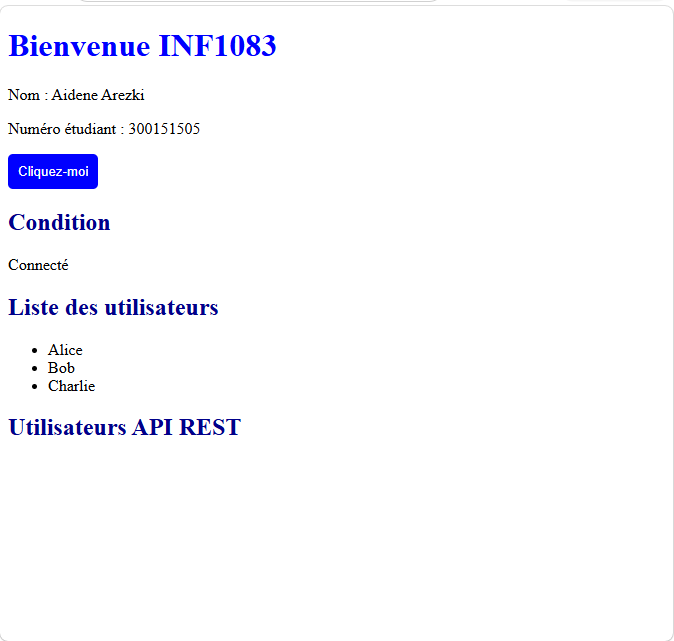
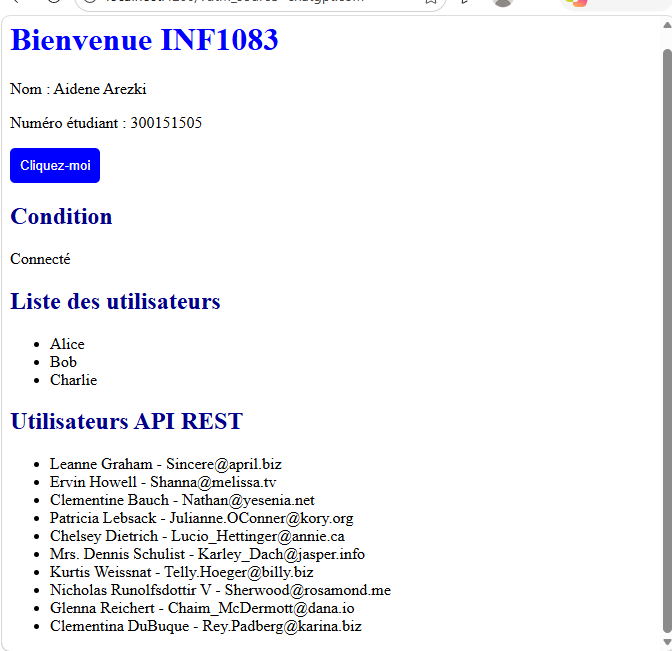
Amelioration du laboratoire Angular 300151505

diff --git a/3.Angular/300151505/README.md b/3.Angular/300151505/README.md
@@ -1,88 +1,339 @@
-\# Laboratoire 3 - Angular
+\# 🚀 Laboratoire 3 — Introduction à Angular
 
 
 
-Nom : Aidene Arezki
+\*\*Étudiant :\*\* Aidene Arezki  
 
-Numéro étudiant : 300151505
+\*\*Numéro étudiant :\*\* 300151505  
 
-Cours : INF1083 - Développement d'applications
+\*\*Programme :\*\* Techniques des systèmes informatiques  
 
-
-
-\## Objectif
-
-Créer une application Angular et découvrir ses principales fonctionnalités.
+\*\*Cours :\*\* INF1083 — Développement d'applications
 
 
 
-\## Travail réalisé
-
-\- Installation de Node.js et Angular CLI
-
-\- Création du projet B300151505
-
-\- Création du composant accueil
-
-\- Utilisation du Data Binding
-
-\- Création d'un bouton avec événement
-
-\- Utilisation de ngIf et ngFor
-
-\- Personnalisation avec CSS
-
-\- Connexion à une API REST
-
-\- Configuration du routage Angular
+\---
 
 
 
-\## Exécution
+\## 1. Objectif
+
+
+
+L'objectif de ce laboratoire est de découvrir Angular et de créer une application Web en utilisant les composants, le Data Binding, les événements, les directives et le routage.
+
+
+
+\## 2. Environnement Angular
+
+
+
+J'ai utilisé Node.js, npm, Angular CLI et Visual Studio Code pour développer mon application.
+
+
+
+Commandes de vérification :
+
+
+
+```powershell
+
+node --version
+
+npm --version
+
+ng version
+
+```
+
+
+
+\## 3. Création du projet
+
+
+
+Mon projet Angular s'appelle `B300151505`.
+
+
+
+Pour accéder au projet :
+
+
+
+```powershell
 
 cd B300151505
 
+```
 
+
+
+\## 4. Composant Accueil
+
+
+
+J'ai créé un composant `AccueilComponent` qui contient les informations principales de mon application.
+
+
+
+Ce composant affiche mon nom, mon numéro étudiant et un message de bienvenue.
+
+
+
+\## 5. Data Binding
+
+
+
+J'ai utilisé le Data Binding pour afficher les informations provenant du fichier TypeScript.
+
+
+
+```typescript
+
+titre = 'Bienvenue INF1083';
+
+nom = 'Aidene Arezki';
+
+id = '300151505';
+
+```
+
+
+
+Dans le HTML :
+
+
+
+```html
+
+<h1>{{ titre }}</h1>
+
+<p>Nom : {{ nom }}</p>
+
+<p>Numéro étudiant : {{ id }}</p>
+
+```
+
+
+
+\## 6. Gestion des événements
+
+
+
+J'ai ajouté un bouton qui exécute une fonction lorsque l'utilisateur clique dessus.
+
+
+
+```typescript
+
+saluer() {
+
+&#x20; alert('Bonjour !');
+
+}
+
+```
+
+
+
+Dans le HTML :
+
+
+
+```html
+
+<button (click)="saluer()">Cliquez-moi</button>
+
+```
+
+
+
+\## 7. Directives Angular
+
+
+
+J'ai utilisé deux directives Angular :
+
+
+
+\- `\*ngIf` pour afficher un message selon une condition.
+
+\- `\*ngFor` pour afficher une liste d'utilisateurs.
+
+
+
+La liste contient Alice, Bob et Charlie.
+
+
+
+\## 8. Connexion à une API REST
+
+
+
+J'ai utilisé `HttpClient` pour récupérer des utilisateurs depuis l'API :
+
+
+
+https://jsonplaceholder.typicode.com/users
+
+
+
+Les utilisateurs sont affichés avec leur nom et leur adresse courriel.
+
+
+
+Le test dans le navigateur a permis de confirmer l'affichage de 10 utilisateurs.
+
+
+
+\## 9. Routage Angular
+
+
+
+J'ai configuré la route principale dans `app.routes.ts`.
+
+
+
+```typescript
+
+import { Routes } from '@angular/router';
+
+import { AccueilComponent } from './accueil/accueil';
+
+
+
+export const routes: Routes = \[
+
+&#x20; {
+
+&#x20;   path: '',
+
+&#x20;   component: AccueilComponent
+
+&#x20; }
+
+];
+
+```
+
+
+
+Cette configuration permet d'afficher le composant Accueil sur la page principale.
+
+
+
+\## 10. Personnalisation CSS
+
+
+
+J'ai utilisé le CSS pour modifier l'apparence de mon application, notamment les couleurs des titres et le bouton.
+
+
+
+\## 11. Exécution de l'application
+
+
+
+Pour lancer mon application :
+
+
+
+```powershell
 
 ng serve
 
-
-
-Ouvrir http://localhost:4200
-
-
-
-\## Captures d'écran
-
-Les captures du laboratoire sont disponibles dans le dossier images.
-
-\## Résultat de l'application
+```
 
 
 
-L'application Angular a été créée et testée.
+L'application est accessible à l'adresse :
 
 
 
-\- Le composant accueil fonctionne.
-
-\- Le Data Binding affiche mon nom et mon ID.
-
-\- Le bouton Cliquez-moi fonctionne.
-
-\- Les directives ngIf et ngFor fonctionnent.
-
-\- Le CSS est appliqué.
-
-\- L'API REST a affiché les utilisateurs.
-
-\- Le routage Angular fonctionne.
+http://localhost:4200/
 
 
 
-\## Capture d'écran
+J'ai également vérifié la compilation avec :
+
+
+
+```powershell
+
+ng build
+
+```
+
+
+
+La compilation s'est terminée sans erreur.
+
+
+
+\## 12. Résultat final
+
+
+
+L'application affiche :
+
+
+
+\- Le titre « Bienvenue INF1083 »
+
+\- Mon nom et mon numéro étudiant
+
+\- Un bouton « Cliquez-moi »
+
+\- Le message « Connecté »
+
+\- Une liste de trois utilisateurs
+
+\- Dix utilisateurs provenant de l'API REST
+
+
+
+\### Capture de l'application
 
 
 
 !\[Application Angular](images/application-angular.png)
+
+
+
+\## 13. Conclusion
+
+
+
+Ce laboratoire m'a permis de découvrir Angular et de comprendre le fonctionnement des composants, du Data Binding, des directives et du routage.
+
+
+
+J'ai également appris à récupérer des données depuis une API REST et à les afficher dans une application Web.
+
+
+
+\---
+
+
+
+**INF1083 – Laboratoire Angular – Aidene Arezki – 300151505**
+## Captures d'écran du laboratoire
+
+### Figure 1 — Environnement Angular
+![Environnement Angular](images/01-environnement-angular.png)
+
+### Figure 2 — Composant Accueil
+![Composant Accueil](images/02-composant-accueil.png)
+
+### Figure 3 — Routage Angular
+![Routage Angular](images/03-routage-angular.png)
+
+### Figure 4 — Serveur Angular
+![Serveur Angular](images/04-serveur-angular.png)
+
+### Figure 5 — Application Angular finale
+![Application Angular](images/05-application-angular.png)
+
+### Figure 6 — Test du bouton Bonjour
+![Bouton Bonjour](images/06-bouton-bonjour.png)
 
